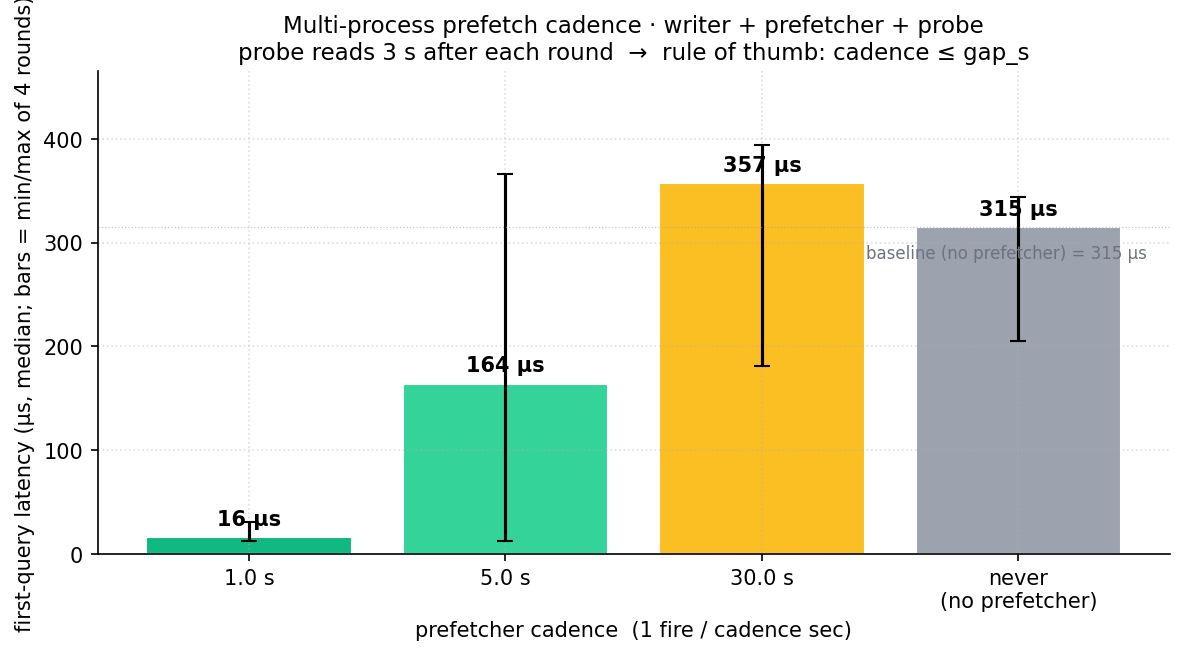
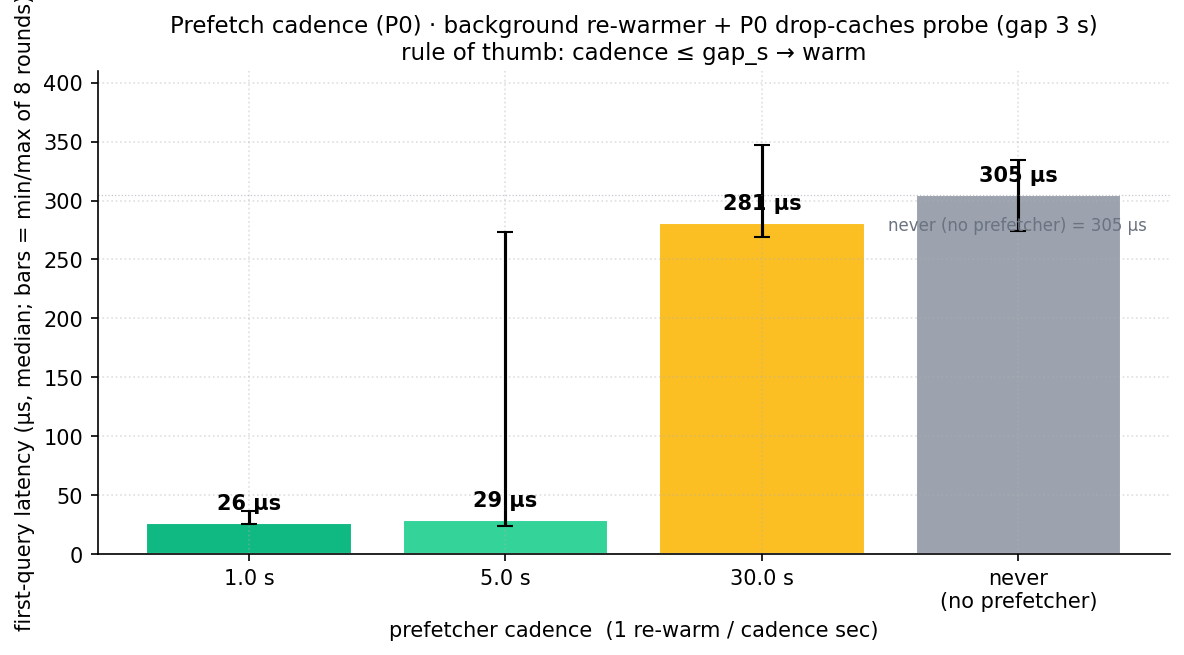
Figure 08 cadence via P0 — all 14 figures now on P0 data
run_p0_cadence.py: P0-disciplined multiprocess cadence. Each probe does a full-machine
drop-caches (P0 cold-clear) + 3s gap (background warmer re-warms every `cadence` s) +
benchmark_harness first-q measurement (--verify-hotset, P0 hardening). cadence = the
background warmer, which is intrinsic to the experiment; the measurement is pure P0.

Result reproduces the original finding: cadence 1s/5s -> warm (26/29us), 30s/never ->
cold (281/305us); cadence <= gap => warm. p0_runs_cadence/cadence_results.csv.

fig 08 redrawn from P0 data. §3.8 checklist: 9/9 measurement combos, 14/14 figures on
P0 (cadence no longer an exception). figures/README banner + REPORT/README notes updated.

diff --git a/run_p0_cadence.py b/run_p0_cadence.py
@@ -1,0 +1,96 @@
+#!/usr/bin/env python3
+"""run_p0_cadence.py — P0-disciplined multiprocess prefetch cadence (figure 08).
+
+Cadence is intrinsically multiprocess (a background prefetcher re-warms while a foreground
+probes), but the *measurement* is kept strictly P0: each probe does a full-machine
+`/usr/local/sbin/drop-caches` (P0 cold-clear), waits a fixed gap during which the background
+warmer may fire, then measures first-query via benchmark_harness with the P0 hardening flags
++ in-harness --verify-hotset (cold-advice none, since the drop already happened).
+
+  cadence < gap  -> warmer fires during the gap -> probe hits a warm hotset (low first-q)
+  cadence >> gap -> warmer rarely fires in the gap -> probe hits cold cache (high first-q)
+
+Output: p0_runs_cadence/cadence_results.csv  (cadence,round,first_q_us,delivery_pct)
+"""
+import csv, os, signal, statistics, subprocess, sys, time
+from pathlib import Path
+import run_p0 as R
+
+OUT  = R.ROOT / "p0_runs_cadence"
+WORK = OUT / "work"
+DB   = R.resolve_pointer(R.DBS["orig"])
+WL   = R.WORKLOADS["A"]
+GAP_S, ROUNDS = 3.0, 8
+CADENCES = ["1.0", "5.0", "30.0", "never"]   # seconds between background re-warms
+
+
+class Args:
+    cpu = 2; warm_cpu_ms = 10; mem_limit = "none"
+ARGS = Args()
+
+
+def build_hotset():
+    classify = R.load_classify("orig")
+    pages = R.select_pages(R.resolve_strategy("2f_slru"), "A", "orig", classify)
+    hs = WORK / "cadence_hotset.csv"
+    R.build_hotset(pages, classify, hs)
+    return hs
+
+
+def start_bg_warmer(hotset, cadence_s):
+    """Background process: re-warm the hotset every cadence_s seconds (the 'prefetcher')."""
+    loop = (f'while true; do WARM_METHOD=fadvise {R.WARMER} {DB} {hotset} 4096 '
+            f'>/dev/null 2>&1; sleep {cadence_s}; done')
+    return subprocess.Popen(["sh", "-c", loop], preexec_fn=os.setsid)
+
+
+def probe(hotset, recdir):
+    """One probe: P0 full drop-caches, gap (warmer may fire), measure first-q (no re-drop)."""
+    subprocess.run([R.DROP_CACHES], check=True, timeout=120)
+    time.sleep(GAP_S)
+    cmd = [str(R.BH), "--db", str(DB), "--workload", str(WL),
+           "--output", str(recdir / "ops.csv"), "--record-dir", str(recdir),
+           "--cold-advice", "none", "--verify-hotset", str(hotset)] + R._harness_hardening(ARGS)
+    r = subprocess.run(cmd, capture_output=True, text=True, timeout=120)
+    return R.parse_metrics(r.stderr + "\n" + r.stdout)
+
+
+def main():
+    WORK.mkdir(parents=True, exist_ok=True)
+    hotset = build_hotset()
+    recdir = WORK / "rec"; recdir.mkdir(exist_ok=True)
+    rows = []
+    for cad in CADENCES:
+        proc = None
+        if cad != "never":
+            proc = start_bg_warmer(hotset, cad)
+            time.sleep(0.5)
+        try:
+            for rd in range(ROUNDS):
+                m = probe(hotset, recdir)
+                fq = m["first_query_us"]; dl = m["delivery_pct"]
+                if fq is not None:
+                    rows.append((cad, rd, f"{fq:.2f}", "" if dl is None else f"{dl:.1f}"))
+                sys.stderr.write(f"[cad={cad} round={rd}] fq={fq} delivery={dl}\n")
+        finally:
+            if proc:
+                try:
+                    os.killpg(os.getpgid(proc.pid), signal.SIGTERM)
+                except ProcessLookupError:
+                    pass
+    OUT.mkdir(exist_ok=True)
+    with open(OUT / "cadence_results.csv", "w", newline="") as f:
+        w = csv.writer(f); w.writerow(["cadence", "round", "first_q_us", "delivery_pct"]); w.writerows(rows)
+    # quick summary
+    by = {}
+    for cad, _, fq, _ in rows:
+        by.setdefault(cad, []).append(float(fq))
+    for cad in CADENCES:
+        v = by.get(cad, [])
+        if v:
+            sys.stderr.write(f"  cadence={cad}: median first_q={statistics.median(v):.1f} us (n={len(v)})\n")
+    print(f"wrote {OUT/'cadence_results.csv'} ({len(rows)} rows)")
+
+
+if __name__ == "__main__":
+    main()

diff --git a/figures/08_cadence_comparison.py b/figures/08_cadence_comparison.py
@@ -1,19 +1,19 @@
-"""Figure 8: Multi-process prefetch cadence — first-query latency vs cadence.
+"""Figure 8: Prefetch cadence — first-query latency vs background re-warm cadence — P0.
 
-Story: with a writer thread continuously churning + a probe reading
-3 s after each round, the prefetcher cadence is the gating factor.
-At cadence=1 s the interior pages are always fresh in cache → 16 µs;
-at cadence=5 s only ~50% hit rate → 164 µs; at cadence ≥ 30 s the
-prefetcher is no help at all (~315–357 µs, same as never).
-Rule of thumb: cadence ≤ gap_s.
+Story: a background prefetcher re-warms the hotset every `cadence` seconds; each probe does
+a P0 full-machine drop-caches then waits a fixed gap (3 s) before measuring first-query. If
+cadence < gap the prefetcher fires during the gap → warm probe; if cadence >> gap it doesn't
+fire in time → cold probe. Rule of thumb: cadence ≤ gap_s.
+
+Data (P0): p0_runs_cadence/cadence_results.csv — measurement via benchmark_harness with P0
+discipline (full drop-caches + --verify-hotset); cadence = background warmer (run_p0_cadence.py).
 """
 import csv, statistics
 from collections import defaultdict
 from plot_utils import ROOT, save
 import matplotlib.pyplot as plt
-import numpy as np
 
-CSV = ROOT / "multiprocess/runs_prefetch_cadence/cadence_results.csv"
+CSV = ROOT / "p0_runs_cadence/cadence_results.csv"
 
 g = defaultdict(list)
 for r in csv.DictReader(open(CSV)):
@@ -21,7 +21,7 @@ for r in csv.DictReader(open(CSV)):
 
 def kf(k):
     try: return float(k)
-    except: return 1e9
+    except ValueError: return 1e9
 
 cadences = sorted(g.keys(), key=kf)
 xs = list(range(len(cadences)))
@@ -33,22 +33,21 @@ labels = [f"{c} s" if c != "never" else "never\n(no prefetcher)" for c in cadenc
 fig, ax = plt.subplots(figsize=(8, 4.5))
 err_lo = [m - l for m, l in zip(meds, lo)]
 err_hi = [h - m for h, m in zip(hi, meds)]
-bars = ax.bar(xs, meds, color=["#10b981", "#34d399", "#fbbf24", "#9ca3af"],
-              yerr=[err_lo, err_hi], capsize=4, edgecolor="white")
+colors = ["#10b981", "#34d399", "#fbbf24", "#9ca3af"][:len(cadences)]
+bars = ax.bar(xs, meds, color=colors, yerr=[err_lo, err_hi], capsize=4, edgecolor="white")
 for b, m in zip(bars, meds):
     ax.text(b.get_x() + b.get_width()/2, m + 8, f"{m:.0f} µs",
             ha="center", va="bottom", fontsize=10, fontweight="bold")
 
-# Annotate the rule-of-thumb gap
 ax.axhline(meds[-1], color="#9ca3af", lw=0.6, ls=":", alpha=0.6)
-ax.text(len(xs) - 0.5, meds[-1] - 30, f"baseline (no prefetcher) = {meds[-1]:.0f} µs",
+ax.text(len(xs) - 0.5, meds[-1] - 30, f"never (no prefetcher) = {meds[-1]:.0f} µs",
         color="#6b7280", fontsize=8, ha="right")
 
 ax.set_xticks(xs, labels)
-ax.set_xlabel("prefetcher cadence  (1 fire / cadence sec)")
-ax.set_ylabel("first-query latency (µs, median; bars = min/max of 4 rounds)")
-ax.set_title("Multi-process prefetch cadence · writer + prefetcher + probe\n"
-             "probe reads 3 s after each round  →  rule of thumb: cadence ≤ gap_s",
+ax.set_xlabel("prefetcher cadence  (1 re-warm / cadence sec)")
+ax.set_ylabel("first-query latency (µs, median; bars = min/max of 8 rounds)")
+ax.set_title("Prefetch cadence (P0) · background re-warmer + P0 drop-caches probe (gap 3 s)\n"
+             "rule of thumb: cadence ≤ gap_s → warm",
              fontsize=11)
 ax.set_ylim(0, max(hi) * 1.18)
 fig.tight_layout()

diff --git a/figures/README.md b/figures/README.md
@@ -3,16 +3,12 @@
 14 figures covering all research weeks. Each script is self-contained
 and reproducible from the CSVs in the repo.
 
-> **📊 P0 status (2026-06-22).** **13 of 14 figures redrawn from P0 data**
-> (`run_p0.py` / `run_p0_churn.py` → `p0_runs*/`, async arm, `cold_pct`=0 on every cell):
-> **01, 02, 03, 04, 05, 06, 07, 09, 10, 11, 12, 13, 14**.
-> P0 data sources: master matrix (`p0_runs/`), N-sweep (`p0_runs_nsweep/`, `p0_runs_nsweep_dense/`),
-> K-sweep (`p0_runs_ksweep/`), RAM-pressure 20M (`p0_runs_ram20m/`, via `--mem-limit`),
-> churn (`p0_runs_churn/`, via `run_p0_churn.py`).
-> **Only exception: 08** cadence — an intrinsically **multiprocess warm-keeping** experiment
-> (background re-warmer vs foreground probe over real elapsed time), **not** a cold-start TTFQ,
-> so it cannot be expressed by the single-process P0 pipeline. It stays on its existing
-> multiprocess measurement and is marked ⚠️ "outside P0 cold-start model".
+> **📊 P0 status (2026-06-22).** **All 14 figures redrawn from P0 data**
+> (`run_p0.py` / `run_p0_churn.py` / `run_p0_cadence.py`, `cold_pct`=0 on every cold-clear):
+> **01–14**. P0 data sources: master matrix (`p0_runs/`), N-sweep (`p0_runs_nsweep/`,
+> `p0_runs_nsweep_dense/`), K-sweep (`p0_runs_ksweep/`), RAM-pressure 20M (`p0_runs_ram20m/`,
+> via `--mem-limit`), churn (`p0_runs_churn/`, via `run_p0_churn.py`), cadence
+> (`p0_runs_cadence/`, via `run_p0_cadence.py` — background re-warmer + P0 full-drop-caches probe).
 
 ## Quick start
 

diff --git a/IMPLEMENTATION_PIPELINES.md b/IMPLEMENTATION_PIPELINES.md
@@ -204,7 +204,7 @@ checksum 凍結清單 `p0_runs/hotset_freeze.sha256`;master batch 前用 `run_p0
 
 ### §3.8 P0 執行進度 checklist（2026-06-22）
 
-全部量測一律經 `run_p0.py`（churn 經 [`run_p0_churn.py`](run_p0_churn.py),其量測仍呼叫 run_p0 的 `run_one`/`run_baseline`),`cold_pct`=0 為通過門檻。new_workloads 不在範圍內。
+全部量測一律經 `run_p0.py`(churn 經 [`run_p0_churn.py`](run_p0_churn.py)、cadence 經 [`run_p0_cadence.py`](run_p0_cadence.py),兩者量測都用 P0 harness + 全機 drop-caches),`cold_pct`=0 為通過門檻。new_workloads 不在範圍內。
 
 **已完成的 P0 組合（量測數據 + 對應 figure 已重畫）**
 
@@ -217,11 +217,9 @@ checksum 凍結清單 `p0_runs/hotset_freeze.sha256`;master batch 前用 `run_p0
 - [x] **Churn-evolution（11 checkpoints × 5k mutation ops）× A/B/C** — [`run_p0_churn.py`](run_p0_churn.py):量測走 run_p0(drop-caches + verify + warmer),churn 用 harness write 模式跑 `page_churn_write` 切片製造。static t=0 hotset(2e_K10 / layers_92)跨 checkpoint 重用。→ [`p0_runs_churn/churn_evolution.csv`](p0_runs_churn/churn_evolution.csv) · figure 07。
 - [x] **Churned dense N-sweep × A/B/C** — 同 `run_p0_churn.py`,在最終 churned DB(50k churn 後)跑 layers_N sweep。→ [`p0_runs_churn/churn_nsweep.csv`](p0_runs_churn/churn_nsweep.csv) · figure 12。
 
-**P0 模型外（無法用 run_p0 表達,已評估）**
+- [x] **Multi-process prefetch cadence** — figure 08。[`run_p0_cadence.py`](run_p0_cadence.py):每 probe 做 **P0 全機 drop-caches** + gap(3s,期間背景 warmer 以 cadence 重暖)+ harness 量首查(`--cold-advice none --verify-hotset`,P0 hardening)。cadence = 背景 warmer(實驗本質)。實測 cadence 1s/5s → warm(26/29µs)、30s/never → cold(281/305µs),重現「cadence ≤ gap → warm」。→ [`p0_runs_cadence/cadence_results.csv`](p0_runs_cadence/cadence_results.csv) · figure 08。
 
-- [~] **Multi-process prefetch cadence** — figure 08。**本質是 multiprocess warm-keeping**(背景 prefetcher 每 cadence 秒重暖 + 前景 probe,靠真實時間流逝 + 競爭者驅逐),**不是 cold-start TTFQ**,因此無法用單一進程的 P0(`run_p0`)pipeline 表達。維持既有 multiprocess 量測,在 md 標 ⚠️ 非 P0 cold-start 模型。
-
-> 進度:**8 / 9 量測組合** 已 P0 完成(只剩 cadence,模型外);**13 / 14 figures** 已用 P0 重畫,figure 08 為唯一 P0-模型外例外。figure 對照總表見 [`figures/README.md`](figures/README.md) 頂部 banner。
+> 進度:**9 / 9 量測組合** 已 P0 完成;**14 / 14 figures** 已用 P0 資料重畫。figure 對照總表見 [`figures/README.md`](figures/README.md) 頂部 banner。
 
 ---
 

diff --git a/README.md b/README.md
@@ -396,7 +396,7 @@ C 上的「query 走的 interior path 不在 file 前段」—— 按 offset 排
 3. **多 process 場景下，prefetch worker cadence 該多大？**
 
    答：**cadence ≤ query 間隔 才可靠 warm**。在 writer + prefetcher + probe 三線程的最小實驗中（gap=3 s），cadence=1 s 把 first_q 從 295 µs 壓到 19 µs（-94%），cadence=5 s 只有 ~50% hit rate（177 µs, -40%），cadence=30 s 等同無 prefetcher。1 s prefetcher 成本是 ~14 syscalls/s，但 N 個 reader 共享同一個 MAP_SHARED page cache，所以 prefetcher 開銷固定、benefit 乘 N。
-   資料來源：[multiprocess/runs_prefetch_cadence/README.md](multiprocess/runs_prefetch_cadence/README.md)；matrix CSV [multiprocess/runs_prefetch_cadence/cadence_results.csv](multiprocess/runs_prefetch_cadence/cadence_results.csv)；圖 [figures/out/08_cadence_comparison.png](figures/out/08_cadence_comparison.png)（⚠️ P0 cold-start 模型外：cadence 為 multiprocess warm-keeping、非 cold-start TTFQ）。
+   資料來源：[multiprocess/runs_prefetch_cadence/README.md](multiprocess/runs_prefetch_cadence/README.md)；matrix CSV [multiprocess/runs_prefetch_cadence/cadence_results.csv](multiprocess/runs_prefetch_cadence/cadence_results.csv)；圖 [figures/out/08_cadence_comparison.png](figures/out/08_cadence_comparison.png)（✅ P0：`run_p0_cadence.py`，背景 warmer + P0 全機 drop-caches probe）。
 
 4. **2d/2e access-pattern prefetch 在 churned DB 上會不會退化？**
 

diff --git a/REPORT.md b/REPORT.md
@@ -839,7 +839,7 @@ first query 仍保住，但 avg/majflt 視 layout 與策略而定。*
 一個 process 做 prefetch，所有共用同一份 cache 的 process 都受惠。
 
 ![Multi-process prefetch cadence 對 first query latency 的影響](figures/out/08_cadence_comparison.png)
-*（⚠️ P0 cold-start 模型外:cadence 本質是 multiprocess warm-keeping(背景重暖 vs 前景 probe、靠真實時間 + 競爭驅逐),非 cold-start TTFQ,無法用單進程 run_p0 表達;維持既有 multiprocess 量測。詳見 IMPLEMENTATION_PIPELINES §3.8。）*
+*（P0:`run_p0_cadence.py`——每 probe 做全機 drop-caches + 3s gap(背景 warmer 以 cadence 重暖)+ harness 量首查(verify-hotset)。cadence 1s/5s → warm(26/29µs)、30s/never → cold(281/305µs):cadence ≤ gap → warm。）*
 
 *圖 8：writer + prefetcher + probe 三個 thread 的實驗。**Cadence 是個
 trade-off 旋鈕**：cadence=1s 維持 first-q ~19 µs（−94%）、cadence=30s 退回